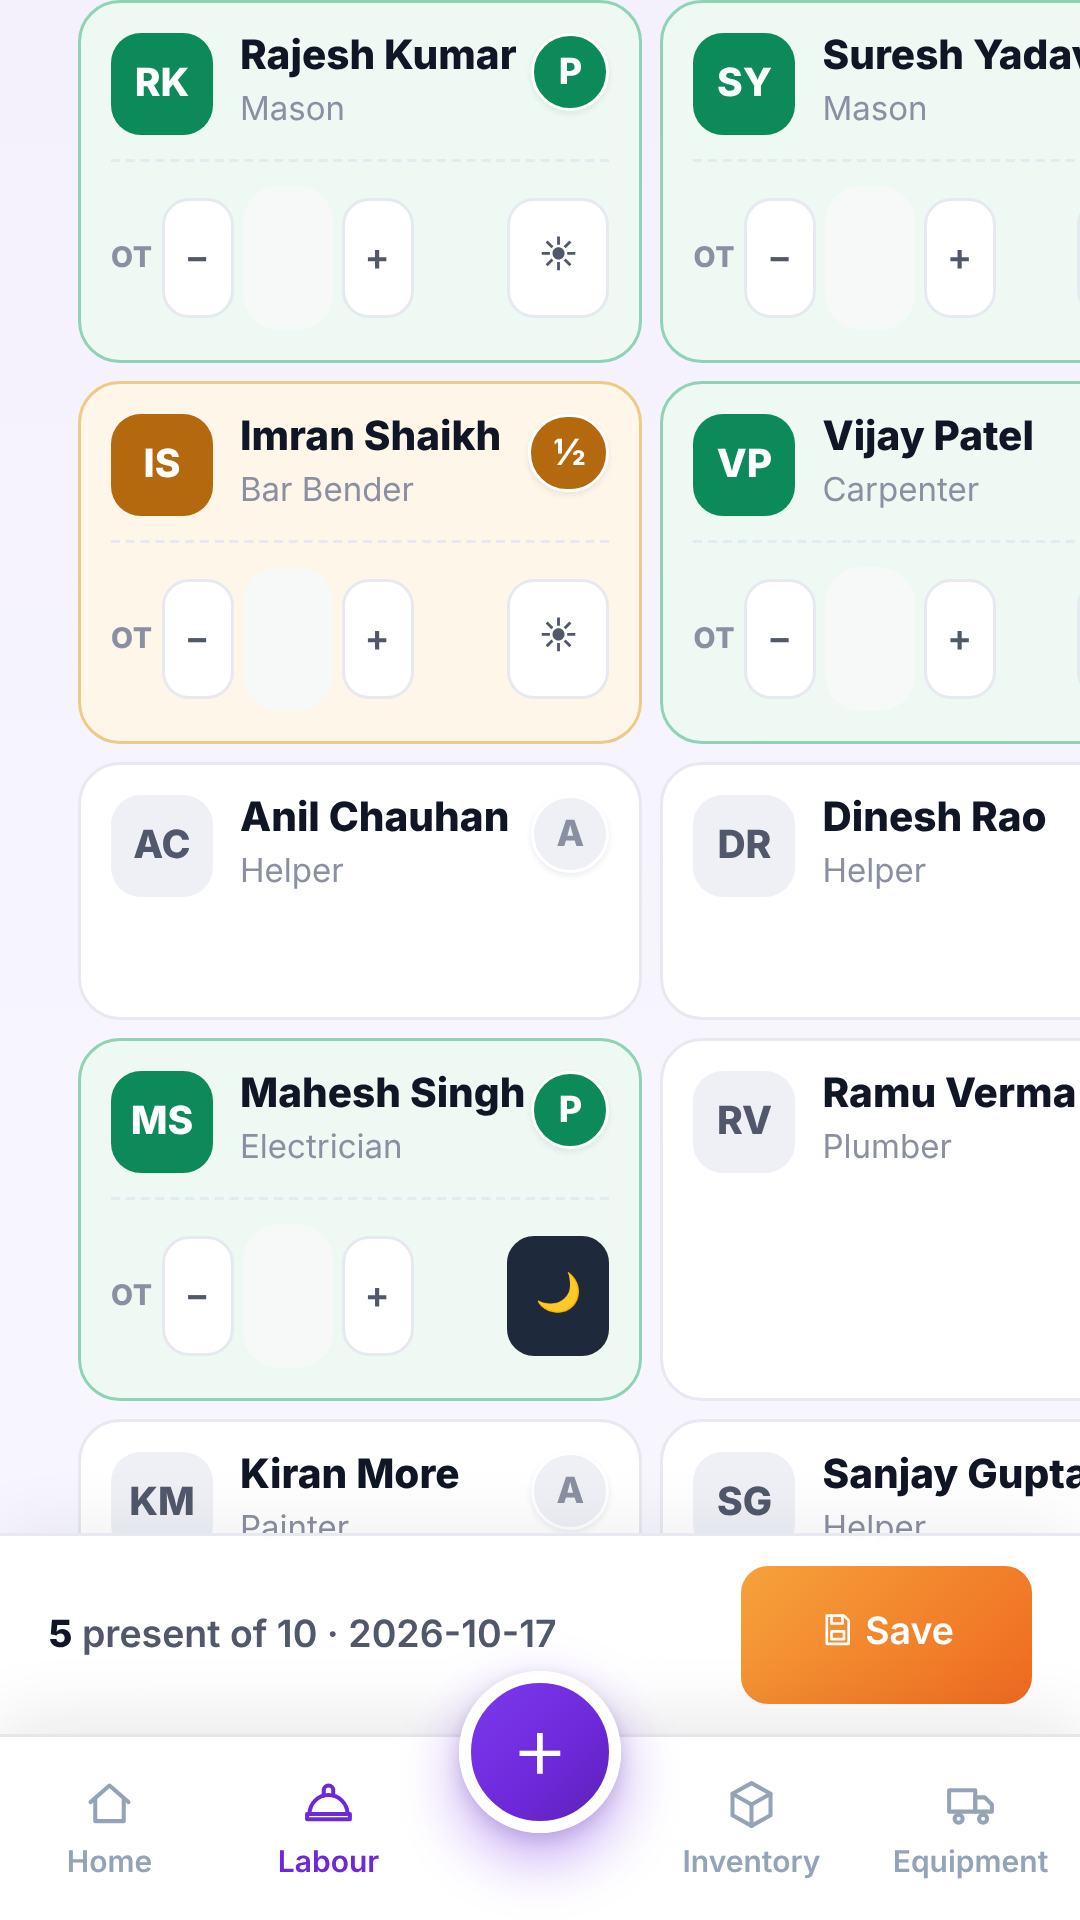
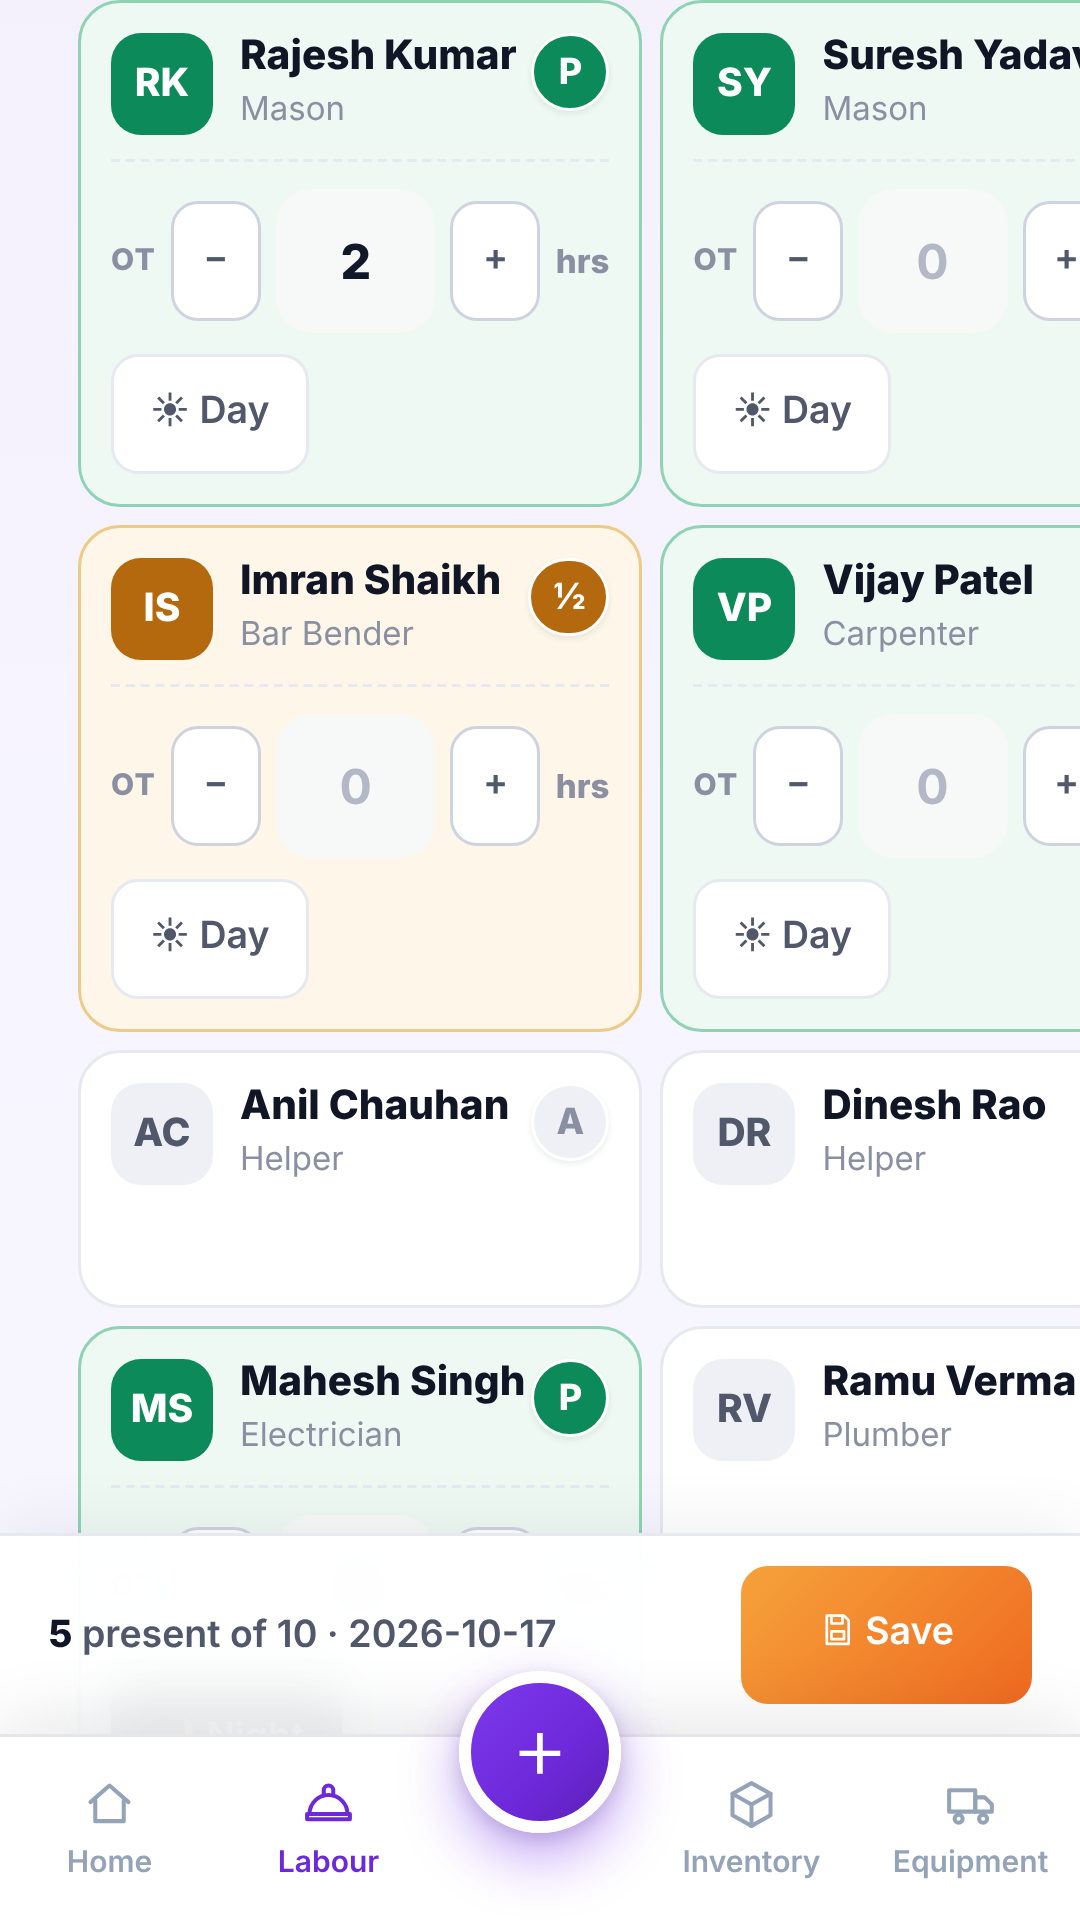
Attendance: make the OT hours a clear, readable box
Move OT onto its own labelled row with a large bold value (OT − [n] +
hrs) so the entered hours are clearly visible; empty shows a 0
placeholder and focus highlights the field. Shift toggle returns to a
full Day/Night label on its own line.

Claude-Session: https://claude.ai/code/session_01SNSuXXiEQZCiUMYXizrYYt

diff --git a/css/data-module.css b/css/data-module.css
@@ -153,14 +153,19 @@
 .att-tile.is-H .att-badge{background:var(--att-warn);color:#fff}
 .att-tile.is-A .att-badge{background:#eef0f6;color:var(--att-ink-3)}
 
-/* Footer (OT + shift) — single compact row, shows only when present / half-day */
-.att-foot{display:none;align-items:center;gap:5px;flex-wrap:nowrap;margin-top:auto;padding-top:8px;border-top:1px dashed var(--att-line)}
+/* Footer (OT + shift) — shows only when present / half-day.
+   OT is its own clearly-readable box; shift sits on the next line. */
+.att-foot{display:none;flex-direction:column;gap:7px;margin-top:auto;padding-top:9px;border-top:1px dashed var(--att-line)}
 .att-tile.is-P .att-foot,.att-tile.is-H .att-foot{display:flex}
-.att-ot{display:flex;align-items:center;gap:3px;font-size:9.5px;font-weight:800;letter-spacing:.02em;text-transform:uppercase;color:var(--att-ink-3);flex:1;min-width:0}
-.att-ot .step{width:24px;height:28px;flex-shrink:0;border:1px solid var(--att-line);background:#fff;border-radius:7px;font-size:16px;font-weight:800;color:var(--att-ink-2);cursor:pointer;display:inline-flex;align-items:center;justify-content:center;padding:0;line-height:1}
+.att-ot{display:flex;align-items:center;gap:5px}
+.att-ot-l{font-size:10px;font-weight:800;letter-spacing:.04em;text-transform:uppercase;color:var(--att-ink-3);flex-shrink:0}
+.att-ot .step{width:30px;height:34px;flex-shrink:0;border:1px solid var(--att-line-strong,#cfd3e0);background:#fff;border-radius:8px;font-size:19px;font-weight:800;color:var(--att-ink-2);cursor:pointer;display:inline-flex;align-items:center;justify-content:center;padding:0;line-height:1}
 .att-ot .step:active{transform:scale(.9)}
-.att-ot input{width:30px;height:28px;flex-shrink:0;border:1px solid var(--att-line);border-radius:7px;text-align:center;font-size:13px;font-weight:800;color:var(--att-ink);outline:none;font-family:inherit;padding:0;line-height:28px}
-.att-shift{height:28px;flex-shrink:0;border:1px solid var(--att-line);background:#fff;border-radius:7px;width:34px;font-size:15px;color:var(--att-ink-2);cursor:pointer;display:inline-flex;align-items:center;justify-content:center;padding:0}
+.att-ot input{flex:1;min-width:0;width:100%;height:34px;border:1.5px solid #cfd3e0;border-radius:8px;text-align:center;font-size:17px;font-weight:800;color:#101626;background:#fff;outline:none;font-family:inherit;padding:0}
+.att-ot input::placeholder{color:#b3b8c6;font-weight:700}
+.att-ot input:focus{border-color:var(--att-ok);box-shadow:0 0 0 3px rgba(12,138,90,.14)}
+.att-ot-u{font-size:11px;font-weight:800;color:var(--att-ink-3);flex-shrink:0}
+.att-shift{align-self:flex-start;height:30px;border:1px solid var(--att-line);background:#fff;border-radius:8px;padding:0 12px;font-size:12px;font-weight:800;color:var(--att-ink-2);cursor:pointer;display:inline-flex;align-items:center;gap:5px}
 .att-shift.night{background:#1e293b;color:#fff;border-color:#1e293b}
 
 .att-save{position:fixed;left:0;right:0;bottom:0;z-index:8000;background:rgba(255,255,255,.95);backdrop-filter:blur(8px);border-top:1px solid var(--att-line);padding:10px 16px;display:flex;align-items:center;gap:12px;box-shadow:0 -4px 20px rgba(16,22,38,.06)}

diff --git a/js/modules/ui.js b/js/modules/ui.js
@@ -5157,12 +5157,14 @@ export function loadAttendanceSheet() {
         <div class="att-tn"><b>${esc(l.name || 'Worker')}</b><span>${esc(l.trade || 'Labour')}</span></div>
       </div>
       <div class="att-foot" onclick="event.stopPropagation()">
-        <div class="att-ot">OT
+        <div class="att-ot">
+          <span class="att-ot-l">OT</span>
           <button type="button" class="step" onclick="_attOT('${l.id}',-1)">−</button>
-          <input type="text" inputmode="decimal" id="ot_${l.id}" value="${ot}" placeholder="0">
+          <input type="number" inputmode="decimal" min="0" max="24" step="0.5" id="ot_${l.id}" value="${ot ? ot : ''}" placeholder="0">
           <button type="button" class="step" onclick="_attOT('${l.id}',1)">+</button>
+          <span class="att-ot-u">hrs</span>
         </div>
-        <button type="button" class="att-shift ${night ? 'night' : ''}" id="shiftbtn_${l.id}" title="${night ? 'Night shift' : 'Day shift'} — tap to switch" onclick="_attShift('${l.id}')">${night ? '🌙' : '☀'}</button>
+        <button type="button" class="att-shift ${night ? 'night' : ''}" id="shiftbtn_${l.id}" onclick="_attShift('${l.id}')">${night ? '🌙 Night' : '☀ Day'}</button>
         <input type="hidden" id="shift_${l.id}" value="${esc(shift)}">
       </div>
     </div>`;
@@ -5236,8 +5238,7 @@ window._attShift = function (id) {
   const night = hidden.value !== 'Night';
   hidden.value = night ? 'Night' : 'Day';
   btn.classList.toggle('night', night);
-  btn.textContent = night ? '🌙' : '☀';
-  btn.title = (night ? 'Night shift' : 'Day shift') + ' — tap to switch';
+  btn.textContent = night ? '🌙 Night' : '☀ Day';
 };
 
 /** Live search filter across worker tiles. */

diff --git a/js/app.js b/js/app.js
@@ -61,7 +61,7 @@ import {
   generateLabourSalary, downloadMusterCard,
   openLabourPaymentModal, saveLabourPayment,
   toggleSidebarDropdown,
-} from './modules/ui.js?v=1.7.17';
+} from './modules/ui.js?v=1.7.18';
 import { exportAbstractPDF, exportDetailedAbstractPDF, exportDetailedAbstractExcel, exportRABillExcel } from './modules/abstractExports.js?v=1.6.74';
 import { exportSimpleMeasurementPdf, exportDetailedMeasurementPdf, exportToExcel, exportDetailedMeasurementExcel } from './modules/measurementExports.js?v=1.7.4';
 import { exportInvoicePDF, exportEstimatePDF } from './modules/invoiceExports.js?v=1.6.25';

diff --git a/app.html b/app.html
@@ -57,8 +57,8 @@
     <link rel="stylesheet" href="css/ledger.css?v=1.6.31">
     <link rel="stylesheet" href="css/mobile-polish.css?v=1.6.97">
     <link rel="stylesheet" href="css/chat.css?v=1.0.3">
-    <link rel="stylesheet" href="css/data-module.css?v=1.0.2">
-    <script type="module" src="js/app.js?v=1.6.163"></script>
+    <link rel="stylesheet" href="css/data-module.css?v=1.0.3">
+    <script type="module" src="js/app.js?v=1.6.164"></script>
 </head>
 <body class="h-screen flex overflow-hidden">
 
